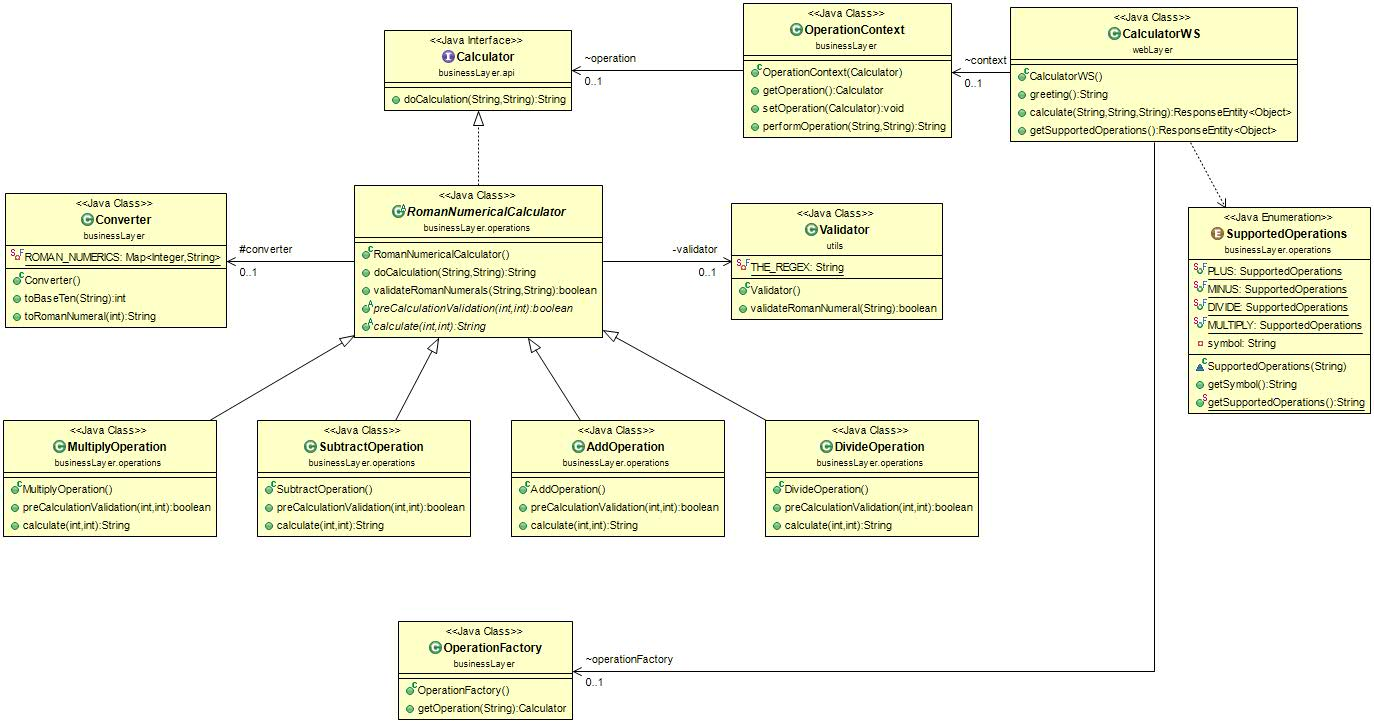
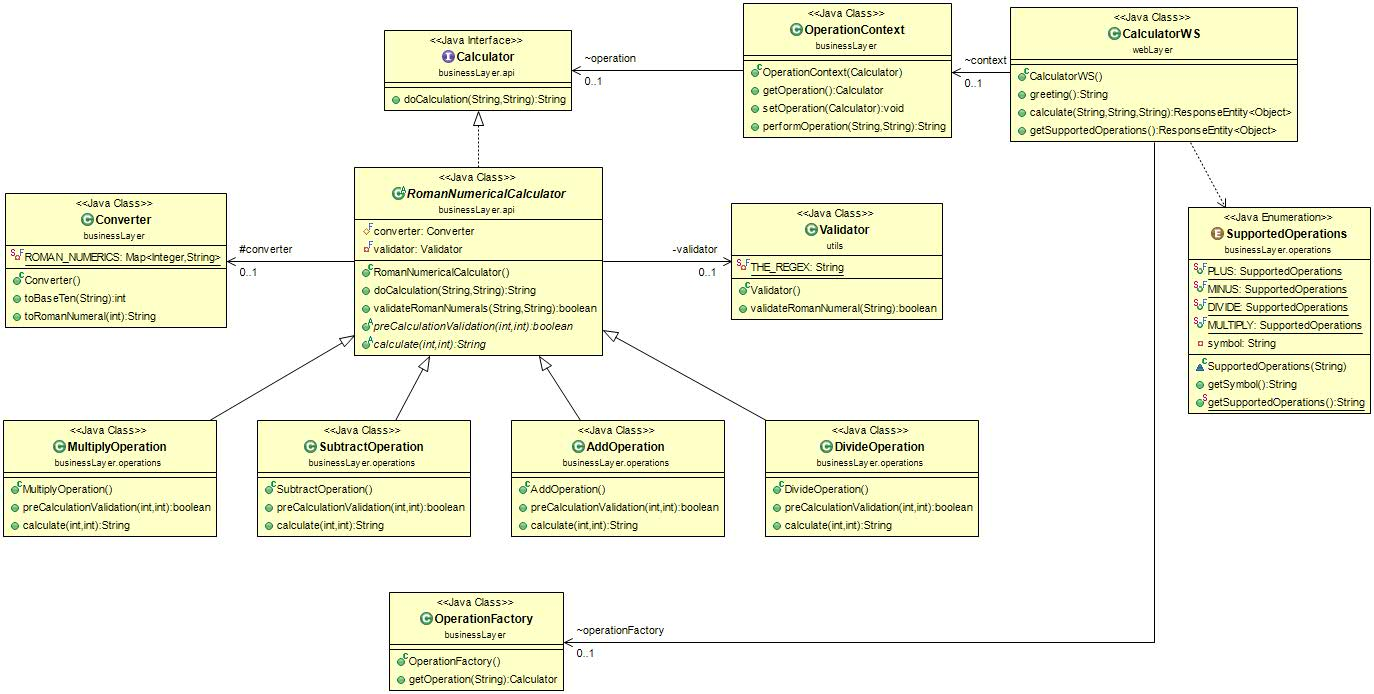
refactoring

diff --git a/src/main/java/businessLayer/api/RomanNumericalCalculator.java b/src/main/java/businessLayer/api/RomanNumericalCalculator.java
@@ -9,10 +9,9 @@
  * program(s) have been supplied.
  *******************************************************************************
  *----------------------------------------------------------------------------*/
-package businessLayer.operations;
+package businessLayer.api;
 
 import businessLayer.Converter;
-import businessLayer.api.Calculator;
 import utils.Validator;
 
 public abstract class RomanNumericalCalculator implements Calculator {
@@ -32,7 +31,6 @@ public abstract class RomanNumericalCalculator implements Calculator {
 		return (validator.validateRomanNumeral(numeral1) && validator.validateRomanNumeral(numeral2));
 	}
 	
-	public abstract boolean preCalculationValidation(final int num1, final int	 num2);
-	
+	public abstract boolean preCalculationValidation(final int num1, final int num2);	
 	public abstract String calculate(int num1, int num2);
 } 

diff --git a/src/main/java/webLayer/CalculatorWS.java b/src/main/java/webLayer/CalculatorWS.java
@@ -12,8 +12,6 @@ import org.springframework.web.bind.annotation.RestController;
 import businessLayer.OperationContext;
 import businessLayer.OperationFactory;
 import businessLayer.operations.SupportedOperations;
-import businessLayer.OperationContext;
-import businessLayer.OperationFactory;
 
 @RestController
 @RequestMapping(value = "/calc")

diff --git a/src/main/java/businessLayer/Application.java b/src/main/java/businessLayer/Application.java
@@ -18,10 +18,8 @@ import org.springframework.context.annotation.ComponentScan;
 @SpringBootApplication
 @ComponentScan(basePackages = { "domainLayer", "businessLayer", "webLayer" })
 public class Application {
-
 	public static void main(final String[] args) {
 		SpringApplication.run(Application.class, args);
-	}
-	
+	}	
 }
   	

diff --git a/src/main/java/businessLayer/operations/SubtractOperation.java b/src/main/java/businessLayer/operations/SubtractOperation.java
@@ -11,6 +11,8 @@
  *----------------------------------------------------------------------------*/
 package businessLayer.operations;
 
+import businessLayer.api.RomanNumericalCalculator;
+
 public class SubtractOperation extends RomanNumericalCalculator { 		
 
 	@Override

diff --git a/src/main/java/businessLayer/operations/MultiplyOperation.java b/src/main/java/businessLayer/operations/MultiplyOperation.java
@@ -11,6 +11,8 @@
  *----------------------------------------------------------------------------*/
 package businessLayer.operations;
 
+import businessLayer.api.RomanNumericalCalculator;
+
 public class MultiplyOperation extends RomanNumericalCalculator {
 
 	@Override

diff --git a/src/main/java/businessLayer/operations/DivideOperation.java b/src/main/java/businessLayer/operations/DivideOperation.java
@@ -11,6 +11,8 @@
  *----------------------------------------------------------------------------*/
 package businessLayer.operations;
 
+import businessLayer.api.RomanNumericalCalculator;
+
 public class DivideOperation extends RomanNumericalCalculator {
 
 	@Override

diff --git a/src/main/java/businessLayer/operations/AddOperation.java b/src/main/java/businessLayer/operations/AddOperation.java
@@ -13,6 +13,8 @@ package businessLayer.operations;
 
 import org.springframework.stereotype.Component;
 
+import businessLayer.api.RomanNumericalCalculator;
+
 @Component
 public class AddOperation extends RomanNumericalCalculator {
 

diff --git a/src/main/java/businessLayer/OperationContext.java b/src/main/java/businessLayer/OperationContext.java
@@ -37,4 +37,5 @@ public class OperationContext {
 	public String performOperation(final String num1, final String num2) {
 		return operation.doCalculation(num1, num2);
 	}
+	
 }

diff --git a/src/main/java/utils/Validator.java b/src/main/java/utils/Validator.java
@@ -33,5 +33,6 @@ public class Validator {
 			throw new ArithmeticException("error : invalid roman rumerical entered");
 		}
 	}
+	
 } 
    
